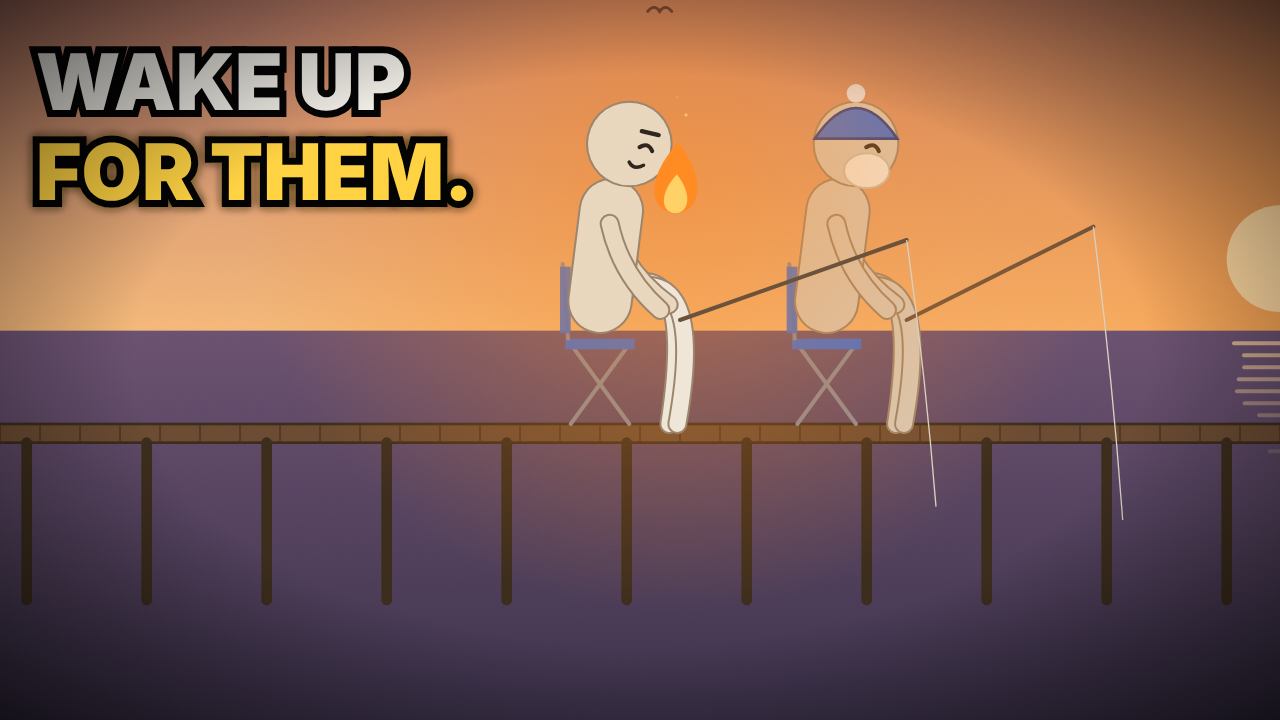
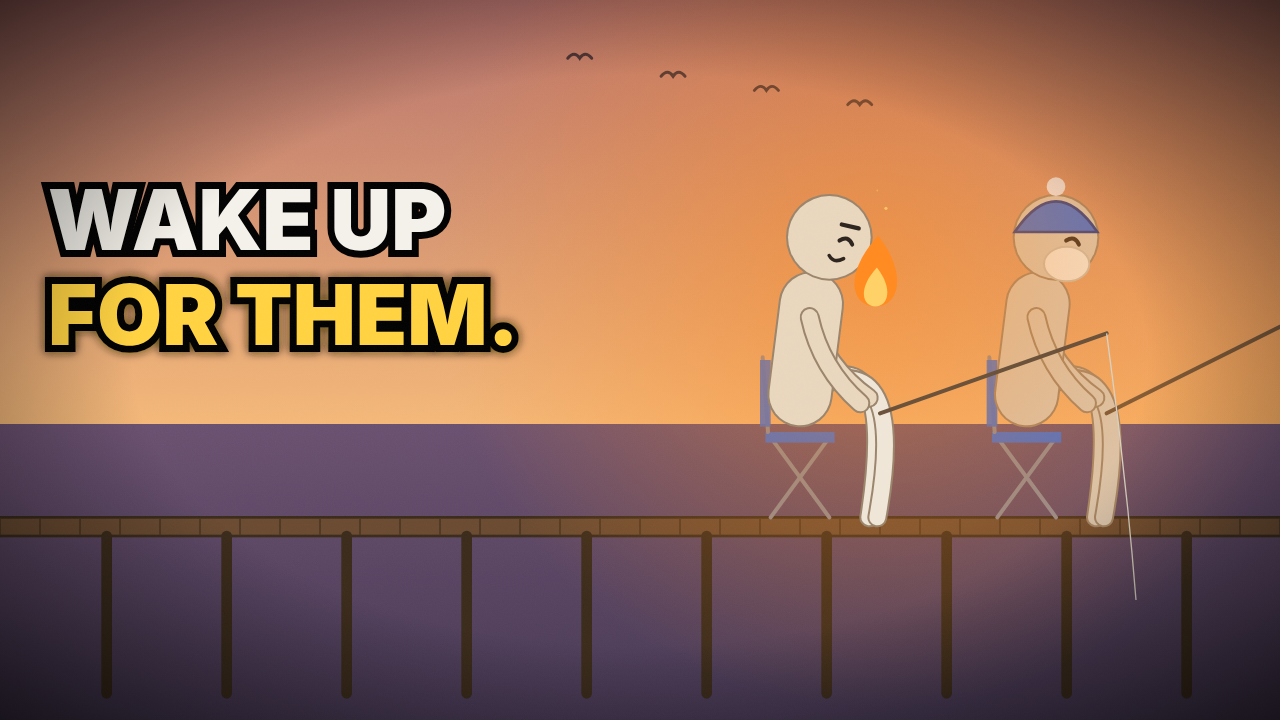
SNOOZE: thumbnail C hạ cảnh, dời người sang phải, chữ xuống giữa; tiêu đề thành câu dẫn chuyện
Claude-Session: https://claude.ai/code/session_01D563dT2ZpFvoT58NnMU5yo

diff --git a/docs/day-one-films/video-snooze/ve-thumbnail.js b/docs/day-one-films/video-snooze/ve-thumbnail.js
@@ -40,9 +40,9 @@ const ART = () => {
     },
     // C: hai ông cháu ngồi câu lúc bình minh — lộ kết, để dự phòng
     C() {
-      let s = `<svg x="0" y="0" width="1280" height="720" viewBox="20 230 960 540">${K.pier(0.4, { rise: 0.8 })}${K.foldChair(470, 548)}${K.foldChair(640, 548)}` +
+      let s = `<svg x="0" y="0" width="1280" height="720" viewBox="-130 160 960 540">${K.pier(0.4, { rise: 0.8 })}${K.foldChair(470, 548)}${K.foldChair(640, 548)}` +
         (() => { const G = K.sitChair(640, 548, { look: 8 }); G.rh = [700, 470]; G.re = [680, 486]; G.lh = [692, 474]; const J = K.sitChair(470, 548, { look: 8 }); J.rh = [530, 470]; J.re = [510, 486]; J.lh = [522, 474]; return K.gpa(G, { mood: 'happy' }) + K.rod([700, 470], [840, 400], 620) + K.fig(J, { flame: 1.1, t: T, mood: 'happy' }) + K.rod([530, 470], [700, 410], 610); })() + '</svg>';
-      s += big(36, 110, 'WAKE UP', { size: 78 }) + big(36, 200, 'FOR THEM.', { size: 78, c: YEL, f: 'yelGlow' });
+      s += big(48, 250, 'WAKE UP', { size: 84 }) + big(48, 345, 'FOR THEM.', { size: 84, c: YEL, f: 'yelGlow' });
       return wrap(s);
     },
   };

diff --git a/docs/day-one-films/video-snooze/UPLOAD.md b/docs/day-one-films/video-snooze/UPLOAD.md
@@ -2,13 +2,13 @@
 
 File tải lên: `SNOOZE-dang-youtube.mp4`. Phim dài 2:24, nối sẵn 6 giây màn hình kết thúc, tổng 2:30, 1920×1080, 24 fps. Âm thanh −15.7 LUFS, đỉnh −1.4 dB.
 
-**Tiêu đề:**
+**Tiêu đề** (một câu dẫn chuyện theo nội dung chính, tên phim để cuối):
 ```
-SNOOZE | An Animated Short Film
+Everyone Had a Number Above Their Head. Grandpa's Was 60. | SNOOZE
 ```
-Tiêu đề dự phòng (khi thử tiêu đề, giữ "SNOOZE |" ở đầu):
-- `SNOOZE | What If You Could See How Many Days They Have Left?`
-- `SNOOZE | A Short Film About the Mornings We Sleep Through`
+Tiêu đề dự phòng để thử (Thử nghiệm và so sánh):
+- `He Kept Hitting Snooze While Grandpa's Days Ran Out | SNOOZE`
+- `She Waved at My Window Every Day. Then Her Number Hit 1. | SNOOZE`
 
 **Mô tả:**
 ```
@@ -48,7 +48,7 @@ If you could see the number above someone you love, would you still hit snooze? 
 |---|---|---|
 | **A "FIVE MORE MINUTES."** | Spark nằm đắp chăn, ngái ngủ, tay với tới đồng hồ đang reo. Ông nội ngoài cửa sổ giơ tay, trên đầu ông số 35 | **Bản chính.** Nói ra nỗi đau và con số, không lộ kết |
 | B "MISSED 21 SUNRISES." | Lọ "MISSED" đầy những mặt trời nhỏ bị nhốt | Bản thử với A trong "Thử nghiệm và so sánh" |
-| C "WAKE UP FOR THEM." | Hai ông cháu ngồi câu trên bến lúc bình minh | Dự phòng. Bản này lộ kết phim nên để sau |
+| C "WAKE UP FOR THEM." | Hai ông cháu ngồi câu trên bến lúc bình minh, người dời sang phải, chữ to ở giữa bên trái | Dự phòng. Bản này lộ kết phim nên để sau |
 
 **Chi tiết khi tải lên:**
 - Danh mục Film & Animation, ngôn ngữ video English.

diff --git a/docs/day-one-films/CLAUDE.md b/docs/day-one-films/CLAUDE.md
@@ -27,6 +27,7 @@ Mọi phim được **vẽ bằng code**: SVG chạy trong Chromium qua Playwrig
    - Không có câu dẫn chuyện.
    - Bước ngoặt dùng **một từ khoá đổi nghĩa** (TOMORROW→TODAY, PERFECT→DONE, THEM→YESTERDAY, SNOOZE→RISE).
    - Thẻ kết là một cặp câu: câu lặng màu trắng, rồi câu đấm màu vàng.
+   - **Tiêu đề YouTube** là một câu dẫn chuyện theo nội dung chính, tên phim để cuối: `<câu> | <TÊN>` (từ SNOOZE). Không chỉ một từ.
 6. **Không chữ đè mặt, không tay lơ lửng** (tay cầm vật phải chạm vật).
 7. **Âm thanh:**
    - Master khoảng −15 LUFS, đỉnh ≤ −1 dBTP. Chặn đỉnh ở 192 kHz trước khi nén AAC, đã có sẵn trong `dung-video.sh`, `limit=0.56`.
